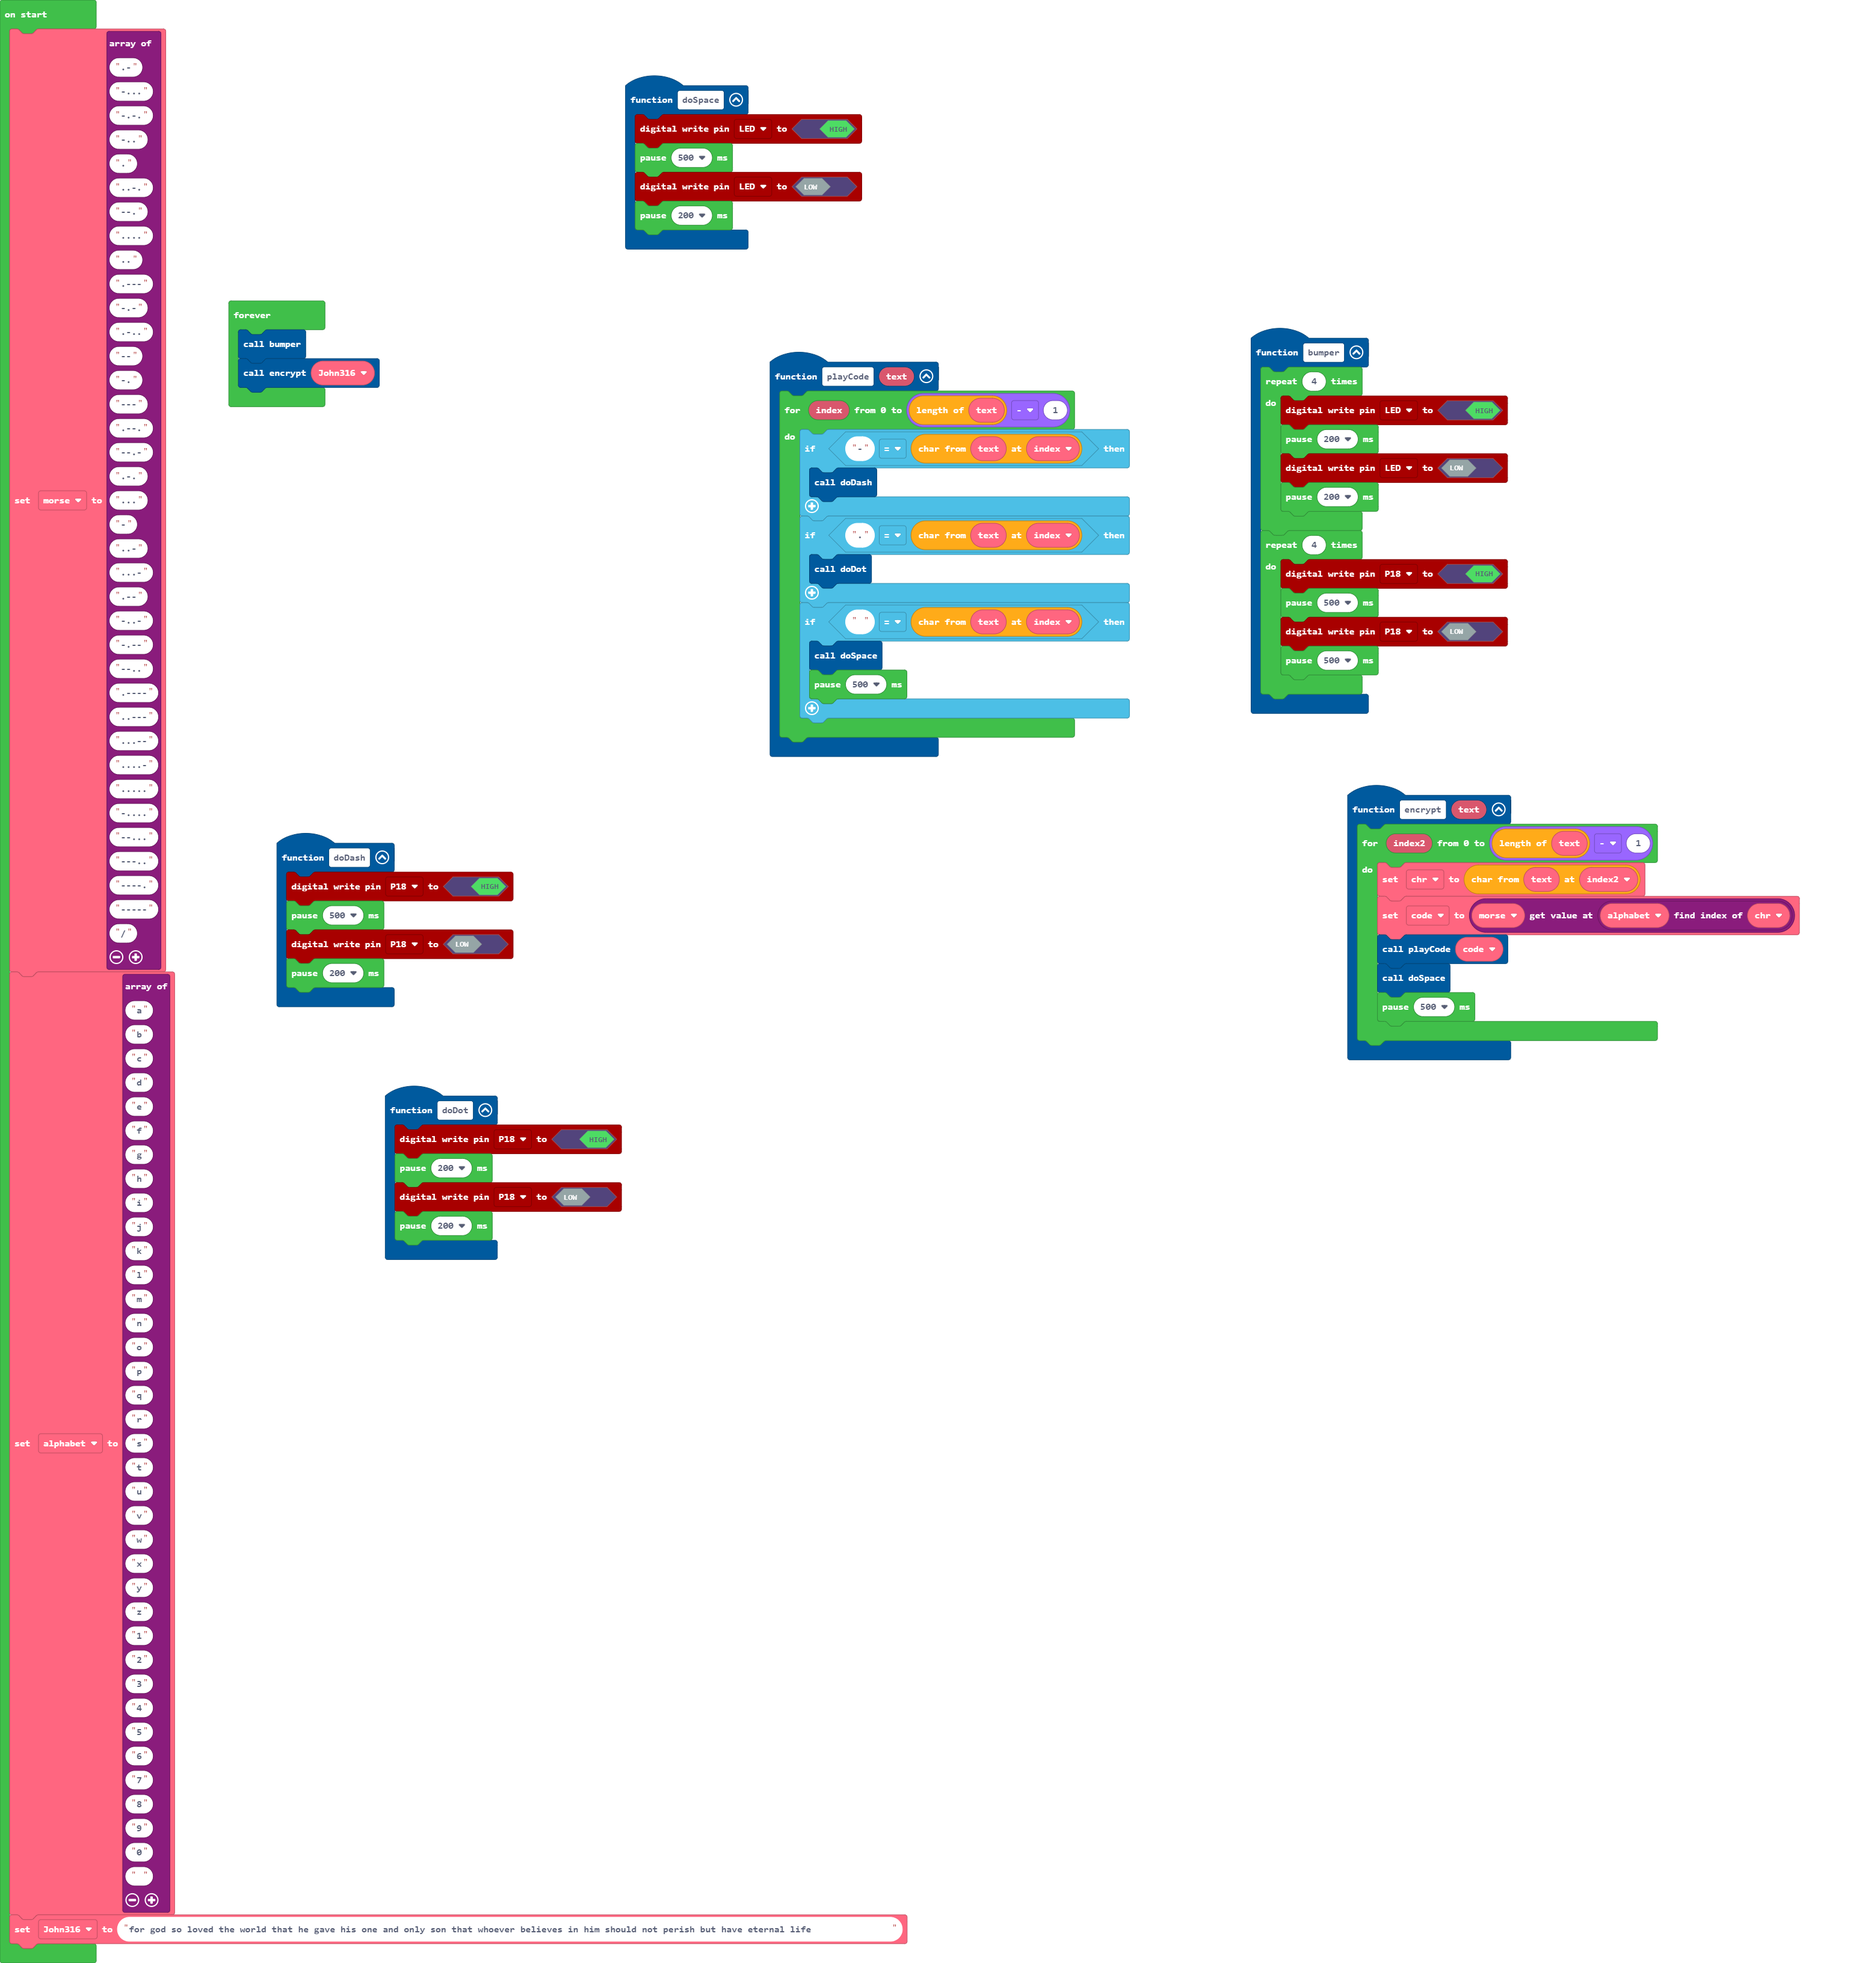
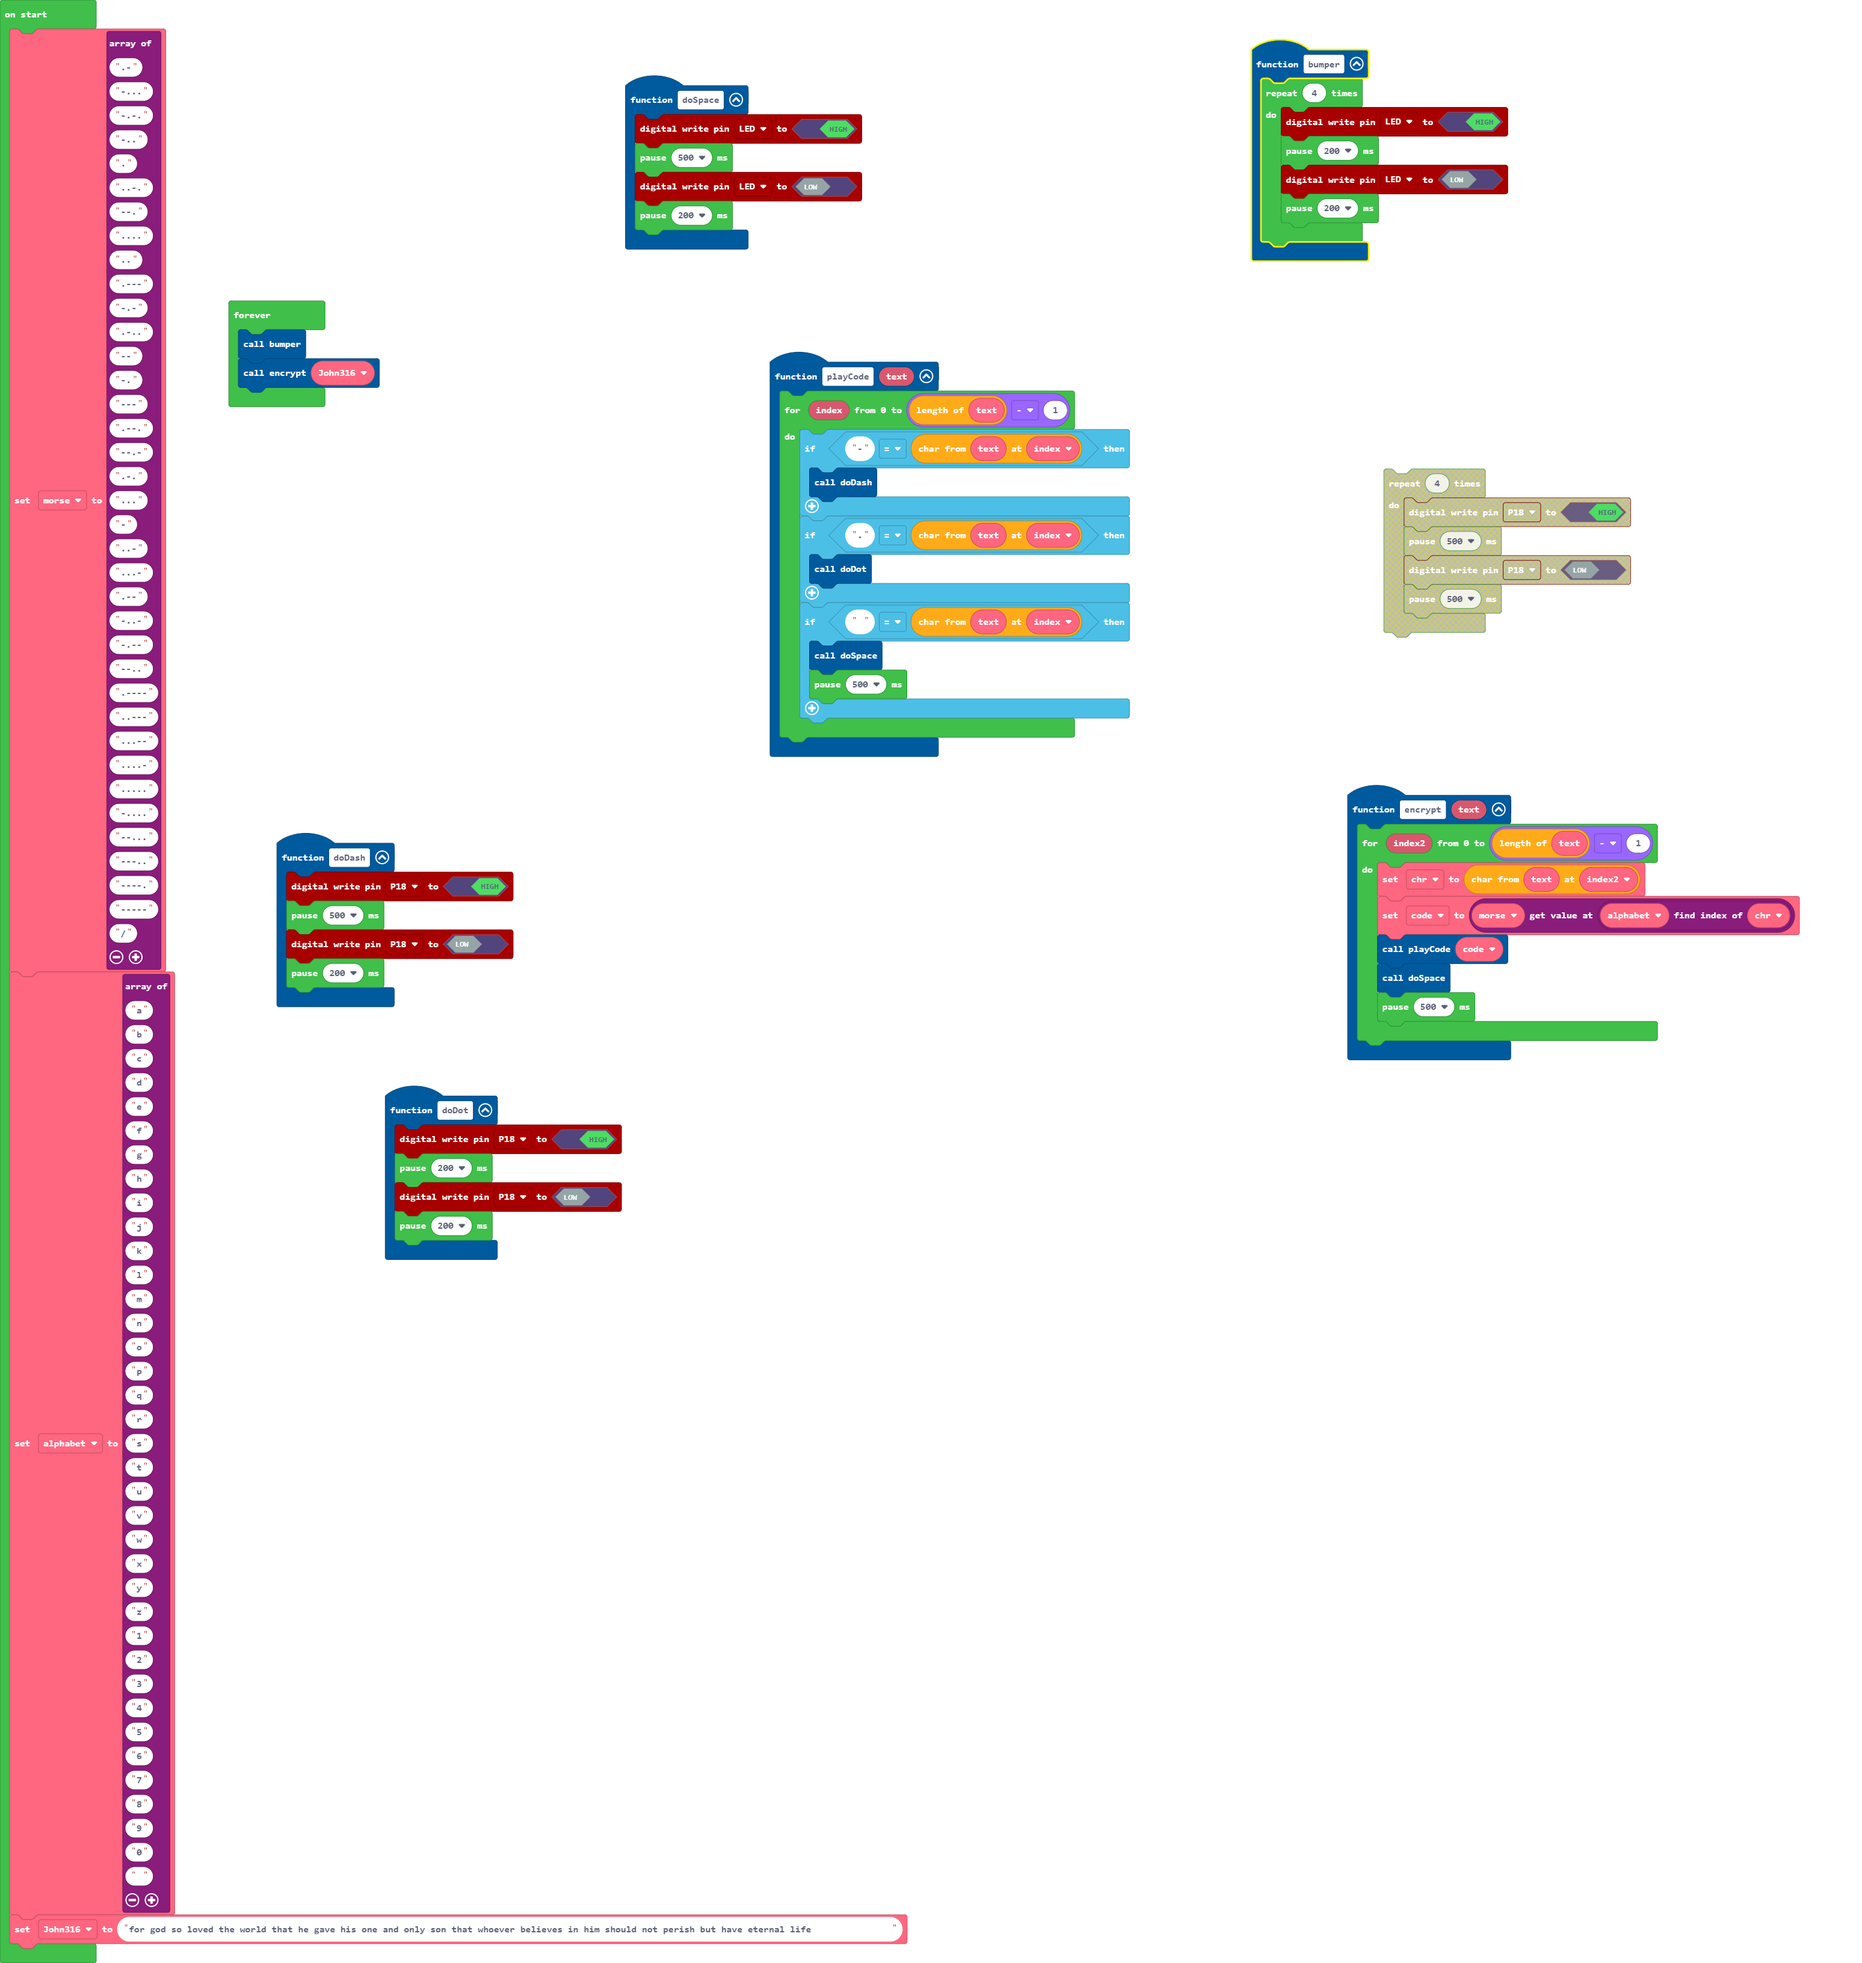
Update main.blocks, main.ts

Changed region(s): [[0.6514, 0.0, 0.8995, 0.375]]

diff --git a/main.ts b/main.ts
@@ -46,12 +46,6 @@ function bumper () {
         pins.LED.digitalWrite(false)
         pause(200)
     }
-    for (let index = 0; index < 4; index++) {
-        pins.P18.digitalWrite(true)
-        pause(500)
-        pins.P18.digitalWrite(false)
-        pause(500)
-    }
 }
 let code = ""
 let chr = ""
